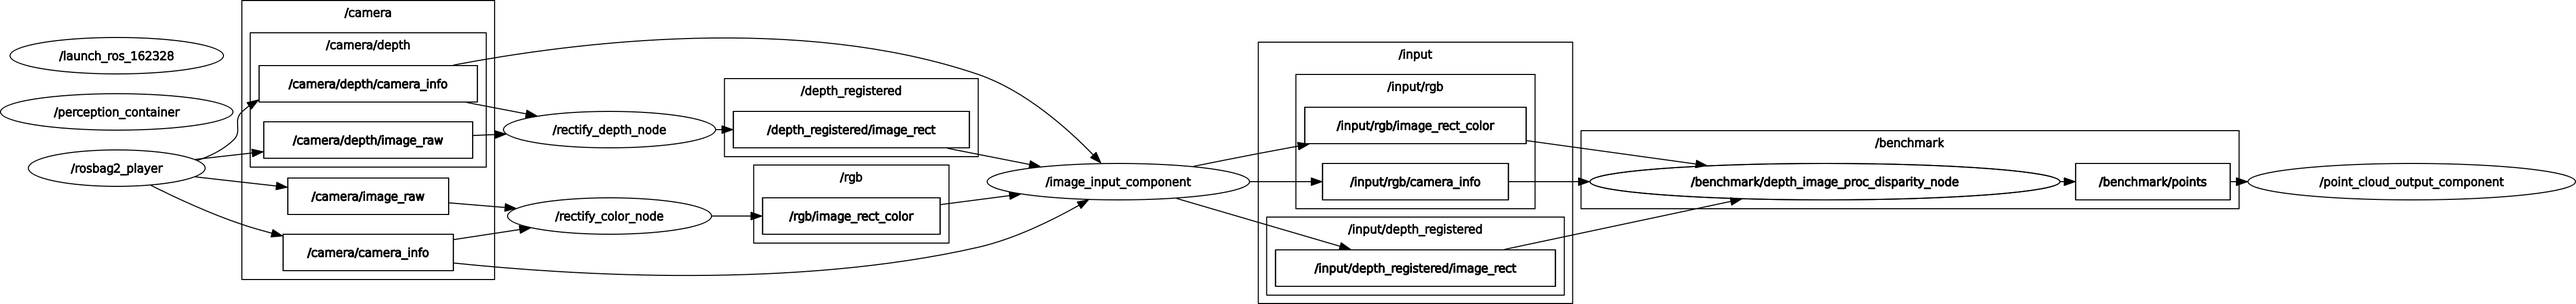
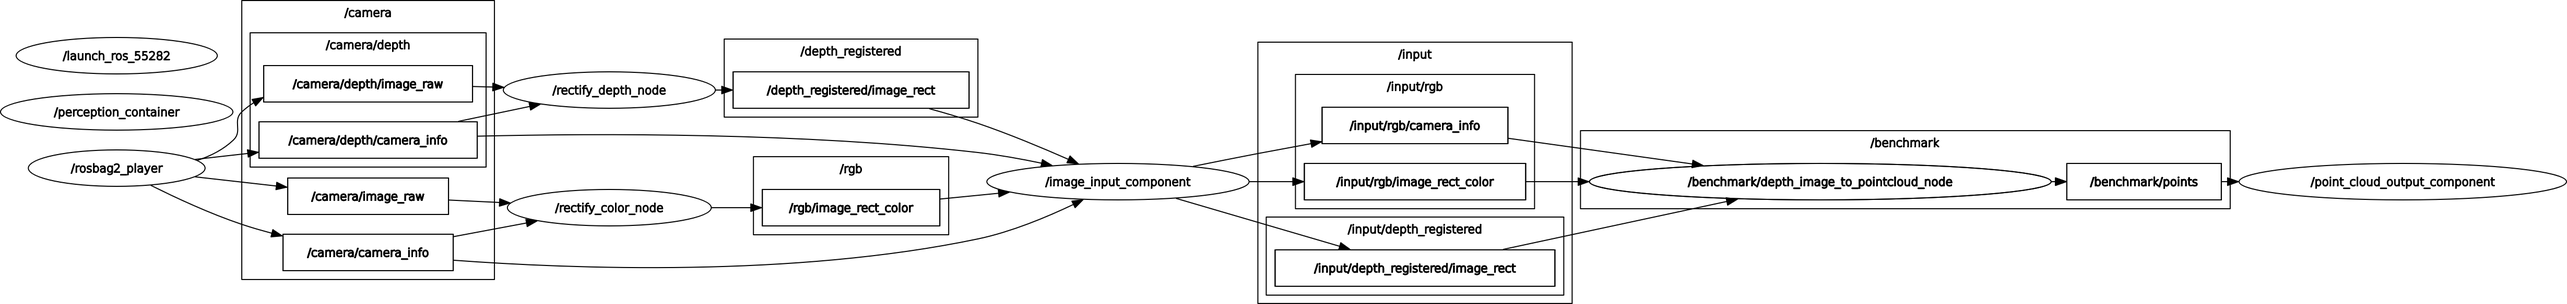
Change misleading node name

diff --git a/benchmarks/perception/a4_depth_image_proc/launch/trace_a4_depth_image_proc.launch.py b/benchmarks/perception/a4_depth_image_proc/launch/trace_a4_depth_image_proc.launch.py
@@ -88,7 +88,7 @@ def generate_launch_description():
                 namespace="benchmark",
                 package="depth_image_proc",
                 plugin="depth_image_proc::PointCloudXyzrgbNode",
-                name="depth_image_proc_disparity_node",
+                name="depth_image_to_pointcloud_node",
                 remappings=[
                     ('rgb/camera_info', '/input/rgb/camera_info'),
                     ('rgb/image_rect_color', '/input/rgb/image_rect_color'),
